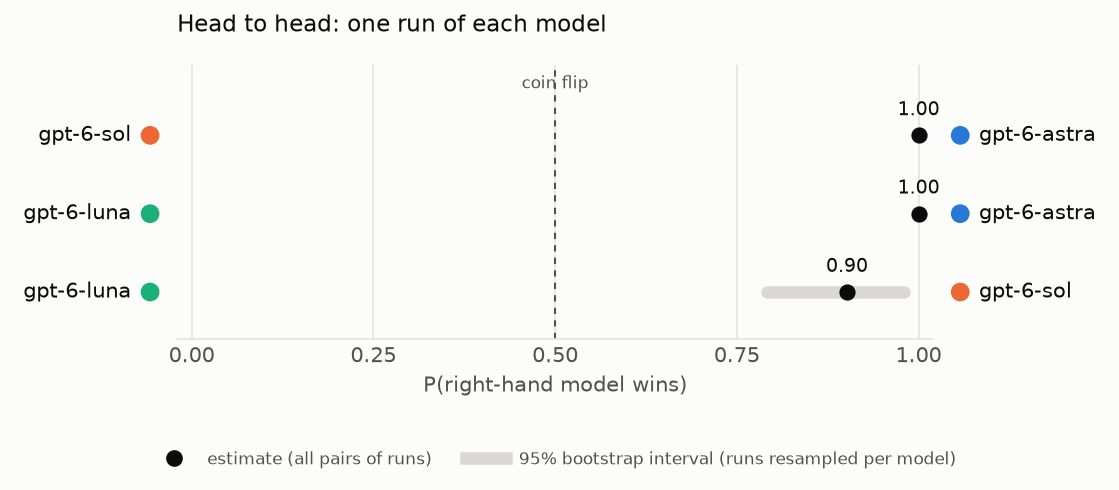
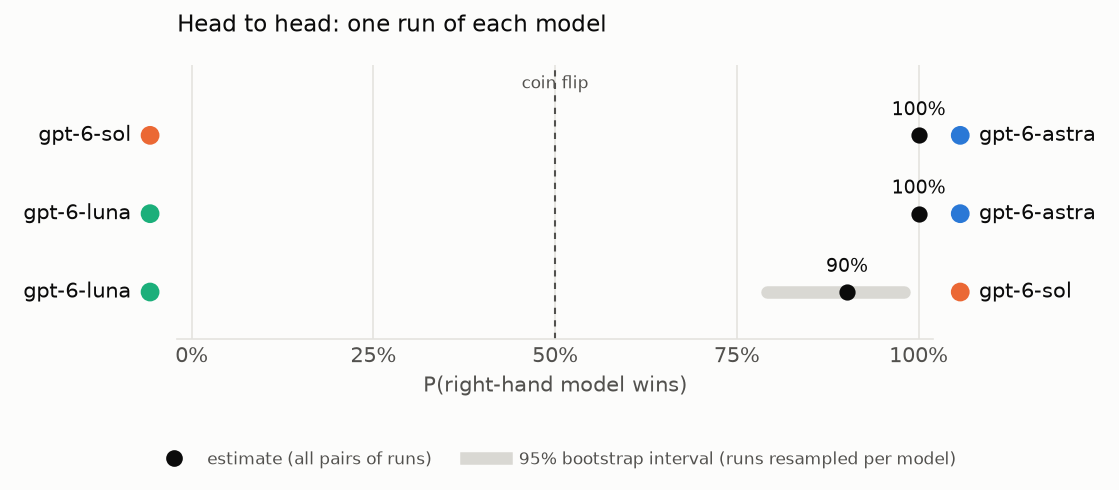
Head-to-head plot: win probability in percent
The dot labels and the axis are whole percents (the printed table keeps
proportions). A label reads 0% or 100% only when the value is exactly that;
otherwise "<1%" or ">99%".

diff --git a/tools/pairwise_win_prob.py b/tools/pairwise_win_prob.py
@@ -16,7 +16,7 @@ included unless --no-caveat is given.
 
 run-multi/SUMMARY/holdout_auc_pairwise.png - one row per pair of models, the
   better one by mean holdout AUC labelled on the right, the other on the left:
-  a dot at P(the right-hand model wins), so it leans toward the usual winner,
+  a dot at P(the right-hand model wins) in percent, so it leans toward the usual winner,
   its 95% bootstrap interval and a reference line at 0.5 (coin flip).
   Not written with --no-caveat or with fewer than two models.
 
@@ -34,6 +34,7 @@ import numpy as np
 from matplotlib.lines import Line2D
 from matplotlib.offsetbox import AnnotationBbox, DrawingArea, HPacker, TextArea
 from matplotlib.patches import Circle
+from matplotlib.ticker import PercentFormatter
 
 from plot_holdout_auc import GRID, INK, INK2, RANGE, RUN_MULTI, SURFACE, model_colours, save, style
 
@@ -70,6 +71,16 @@ def compare(a, b, rng):
     return gt.mean(), (~gt & ~eq).mean(), eq.mean(), lo, hi
 
 
+def percent(p):
+    """p as a whole percent; 0% and 100% only when it is exactly that."""
+    s = f"{p:.0%}"
+    if s == "0%" and p > 0:
+        return "<1%"
+    if s == "100%" and p < 1:
+        return ">99%"
+    return s
+
+
 def plot(rows, runs):
     """rows: (better model, worse model, P, lo, hi), drawn top to bottom in the given order.
 
@@ -86,7 +97,7 @@ def plot(rows, runs):
         y = len(rows) - 1 - i
         ax.plot([lo, hi], [y, y], color=RANGE, lw=6, solid_capstyle="round", zorder=2)
         ax.scatter(p, y, s=46, color=INK, zorder=3)
-        ax.text(p, y + 0.2, f"{p:.2f}", color=INK, fontsize=9, ha="center", va="bottom")
+        ax.text(p, y + 0.2, percent(p), color=INK, fontsize=9, ha="center", va="bottom")
 
     # model labels: a dot in the model's colour (as in the other plots) and the name in ink,
     # model 2 outside the left edge, model 1 (the better one) outside the right edge
@@ -109,6 +120,7 @@ def plot(rows, runs):
     ax.set_ylim(-0.6, len(rows) - 0.1)
     ax.set_xlim(-0.02, 1.02)  # room for the round caps of intervals reaching 0 or 1
     ax.set_xticks(np.linspace(0, 1, 5))
+    ax.xaxis.set_major_formatter(PercentFormatter(1, decimals=0))
     ax.set_xlabel("P(right-hand model wins)", color=INK2)
     ax.grid(axis="x", color=GRID, lw=0.8)
     style(ax, "Head to head: one run of each model")
